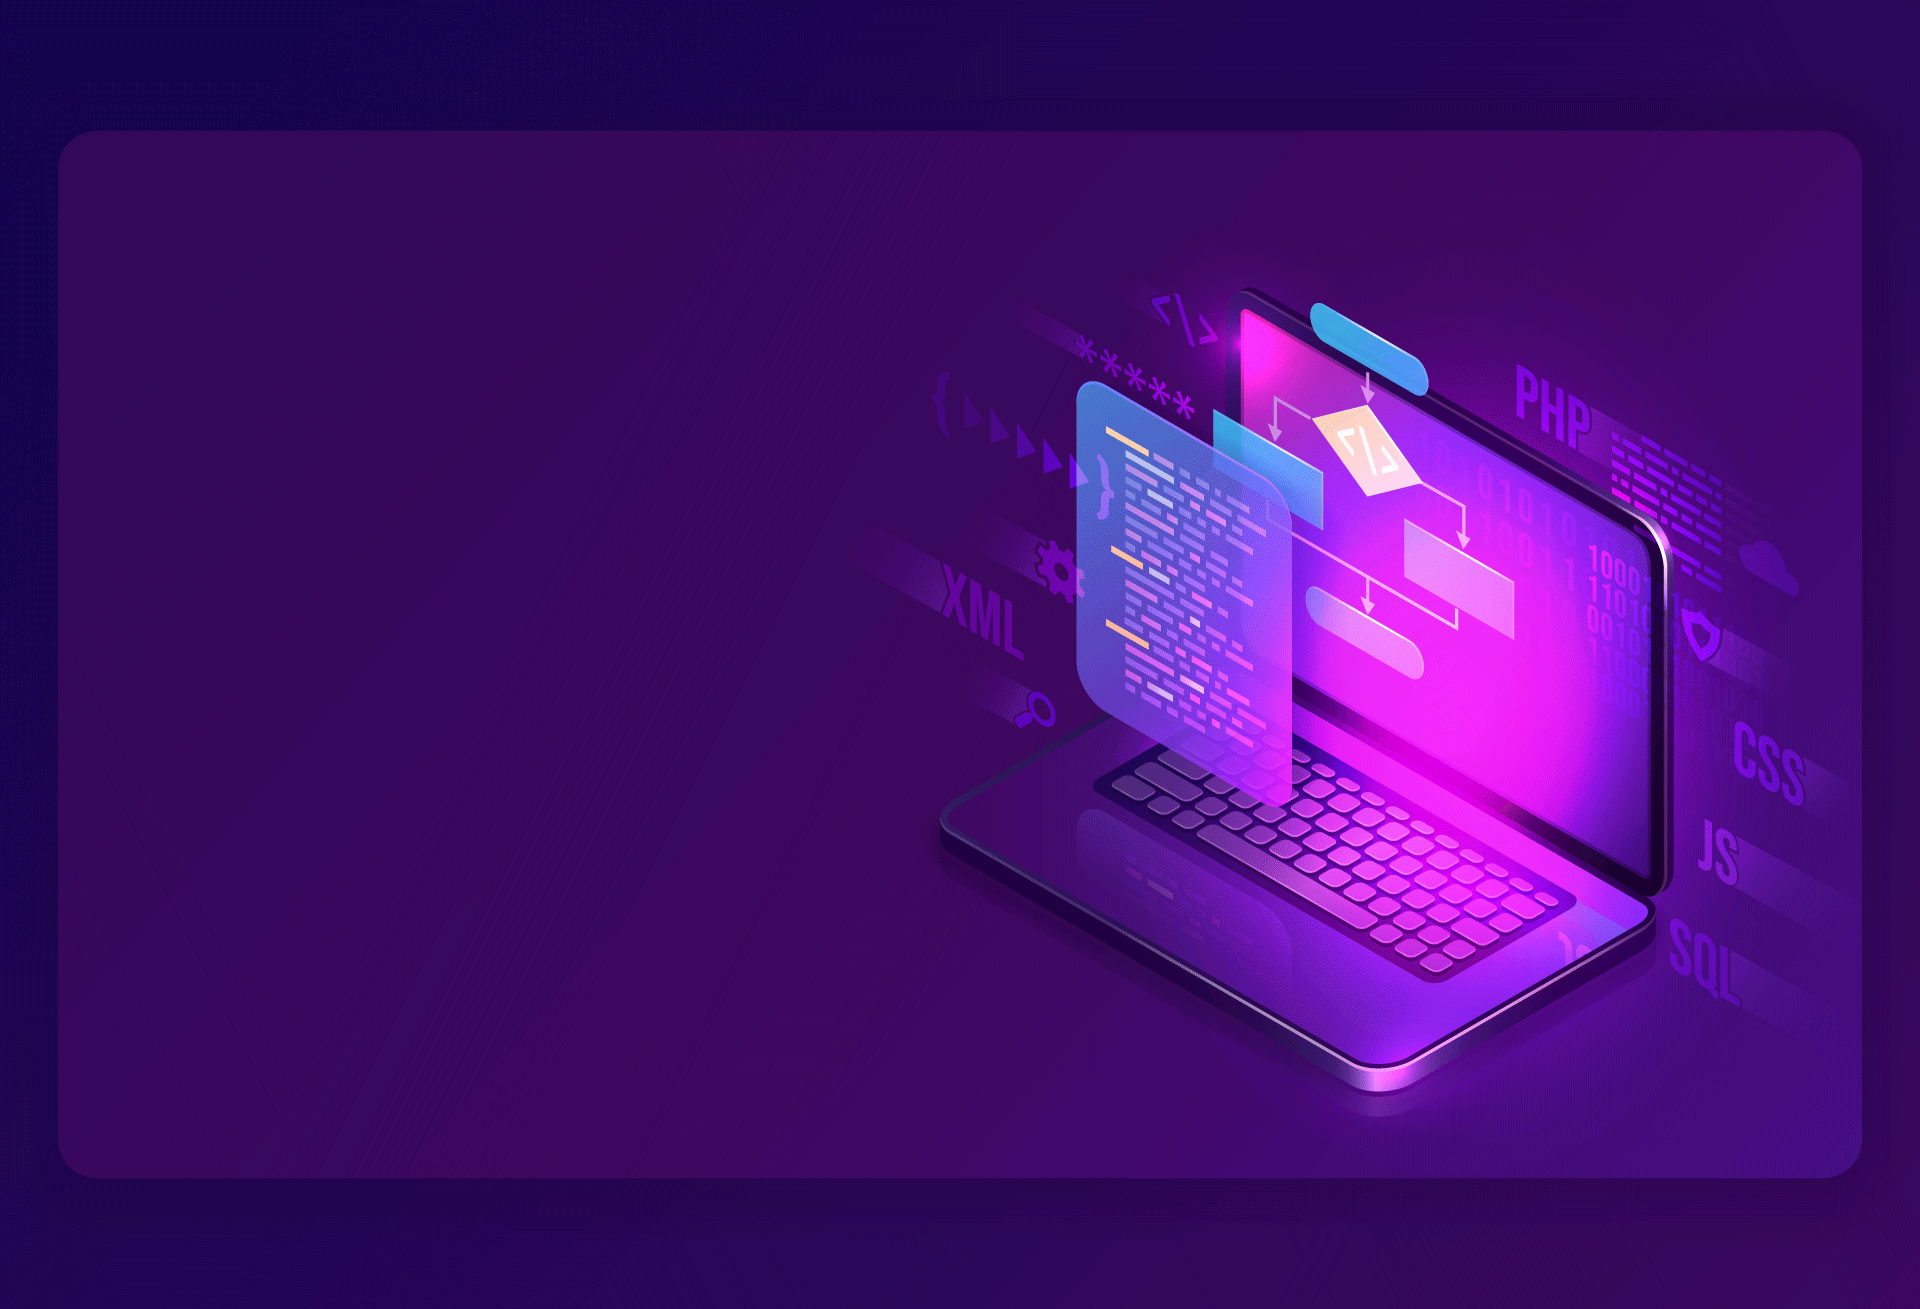
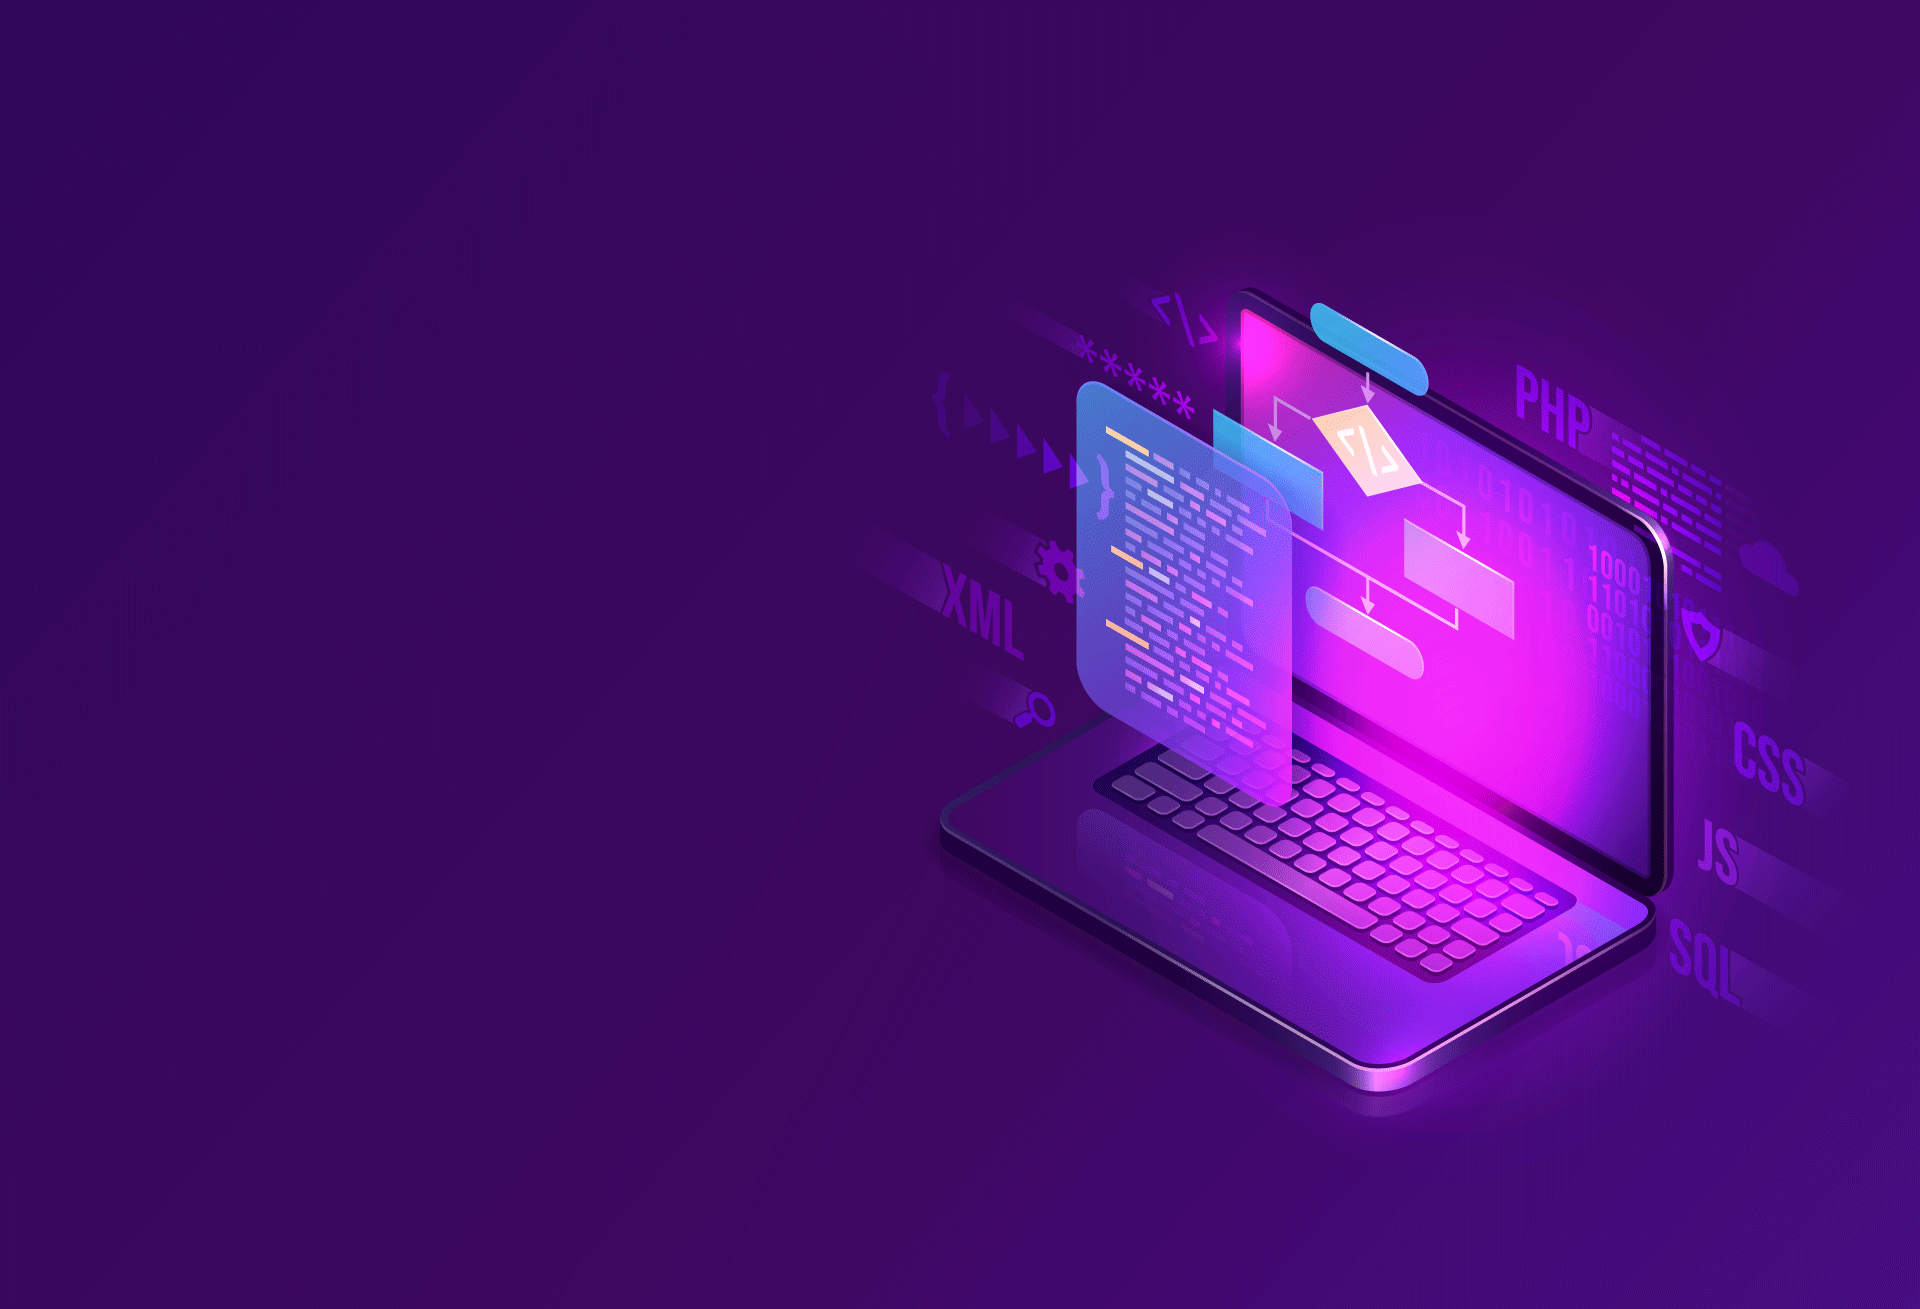
Change background and margin top image

diff --git a/src/components/Main.js b/src/components/Main.js
@@ -30,19 +30,21 @@ class Main extends React.Component {
           }`}
           style={{ display: 'none' }}
         >
-          <span className="image main">
+          <div className="image main">
             <img src={pic_intro} alt="" />
-          </span>
-          <h2 className="major">Intro</h2>
-          <p>
-            Les organisations en croissance, d'aujourd'hui, investissent constamment dans leur système d'informations.
-            Que ce soit pour le fonctionnement interne, la recherche et développement, l'image ou bien la sécurité,
-            les projets numériques sont sources d'une évolution attractive positive.
-          </p>
-          <p>
-            Créé en 2016, Life in the cloud est une entreprise qui accompagne les entreprises dans leur transformation numérique.
-          </p>
-          {close}
+          </div>
+          <div className="article-content">
+            <h2 className="major">Intro</h2>
+            <p>
+              Les organisations en croissance, d'aujourd'hui, investissent constamment dans leur système d'informations.
+              Que ce soit pour le fonctionnement interne, la recherche et développement, l'image ou bien la sécurité,
+              les projets numériques sont sources d'une évolution attractive positive.
+            </p>
+            <p>
+              Créé en 2016, Life in the cloud est une entreprise qui accompagne les entreprises dans leur transformation numérique.
+            </p>
+            {close}
+          </div>
         </article>
 
         <article
@@ -52,9 +54,9 @@ class Main extends React.Component {
           }`}
           style={{ display: 'none' }}
         >
-          <span className="image main">
+          <div className="image main">
             <img src={pic_service} alt="" />
-          </span>
+          </div>
           <h2 className="major">Service</h2>
 
           <p>
@@ -153,9 +155,9 @@ class Main extends React.Component {
           }`}
           style={{ display: 'none' }}
         >
-          <span className="image main">
+          <div className="image main">
             <img src={pic_about} alt="" />
-          </span>
+          </div>
           <h2 className="major">About</h2>
 
           <ul>
@@ -195,9 +197,9 @@ class Main extends React.Component {
           }`}
           style={{ display: 'none' }}
         >
-          <span className="image main">
+          <div className="image main">
             <img src={pic_contact}  alt="" width="" />
-          </span>
+          </div>
           <h2 className="major">Contact</h2>
 
           <div class="profil">

diff --git a/src/assets/scss/components/_image.scss b/src/assets/scss/components/_image.scss
@@ -11,7 +11,7 @@
 		border: 0;
 		display: inline-block;
     position: absolute;
-    top:-27.4em;
+    margin-top:-70%;
 
 		&:before {
 			@include vendor('pointer-events', 'none');
@@ -66,7 +66,6 @@
 
 		&.main {
 			display: block;
-			margin: (_size(element-margin) * 1.25) 0;
 			width: 85%;
 
 			img {
@@ -75,14 +74,10 @@
 		}
 
 		@include breakpoint(small) {
-			&.main {
-				margin: (_size(element-margin) * 1) 0;
-			}
+      margin-top:-70%;
 		}
 
 		@include breakpoint(xsmall) {
-			&.main {
-				margin: (_size(element-margin) * 0.75) 0;
-			}
+      margin-top:-70%;
 		}
 	}

diff --git a/src/assets/scss/layout/_main.scss b/src/assets/scss/layout/_main.scss
@@ -96,6 +96,7 @@
 		@include breakpoint(small) {
 			article {
 				@include padding(2rem, 2rem, (1.5rem, 0, 0.5rem, 0));
+        margin-top:200px;
 				.close {
 					&:before {
 						top: 0.875rem;
